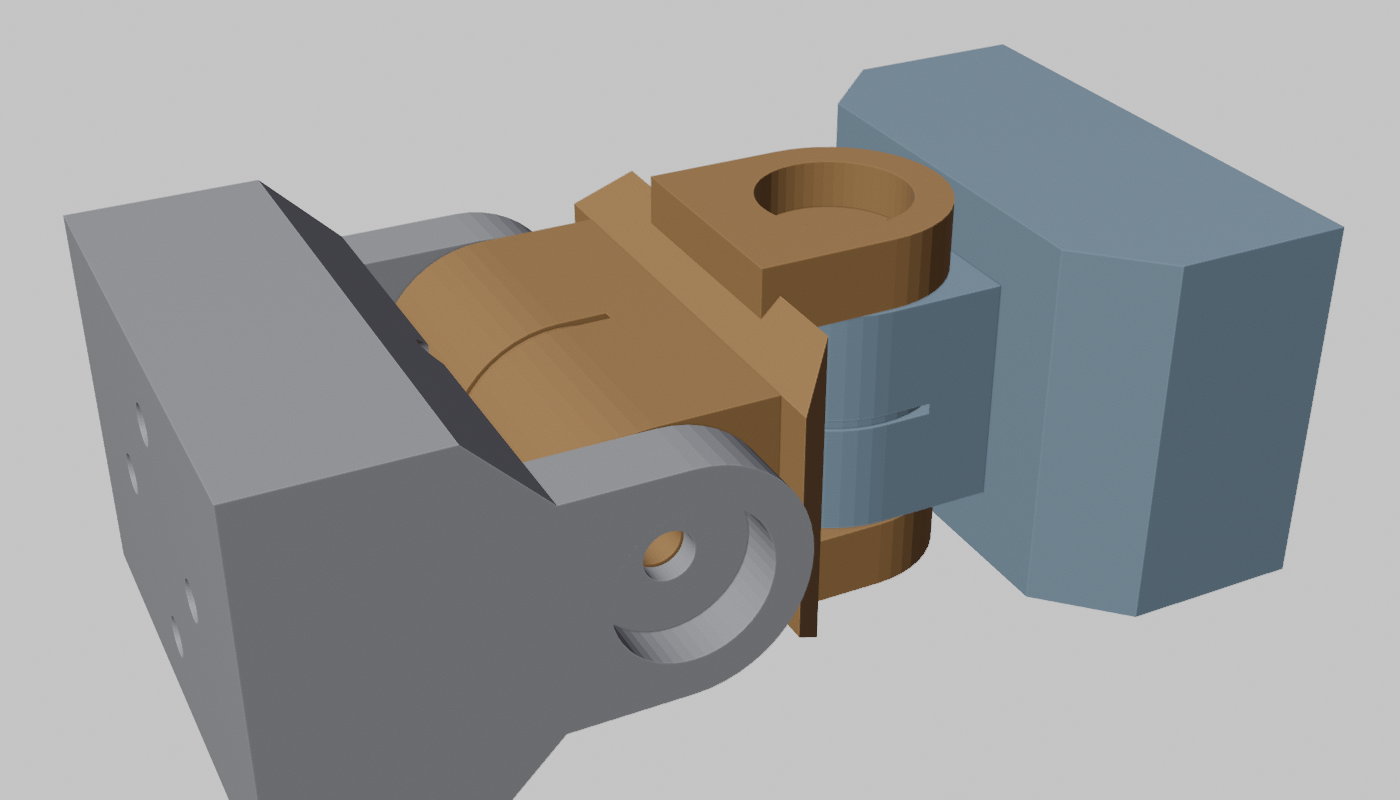
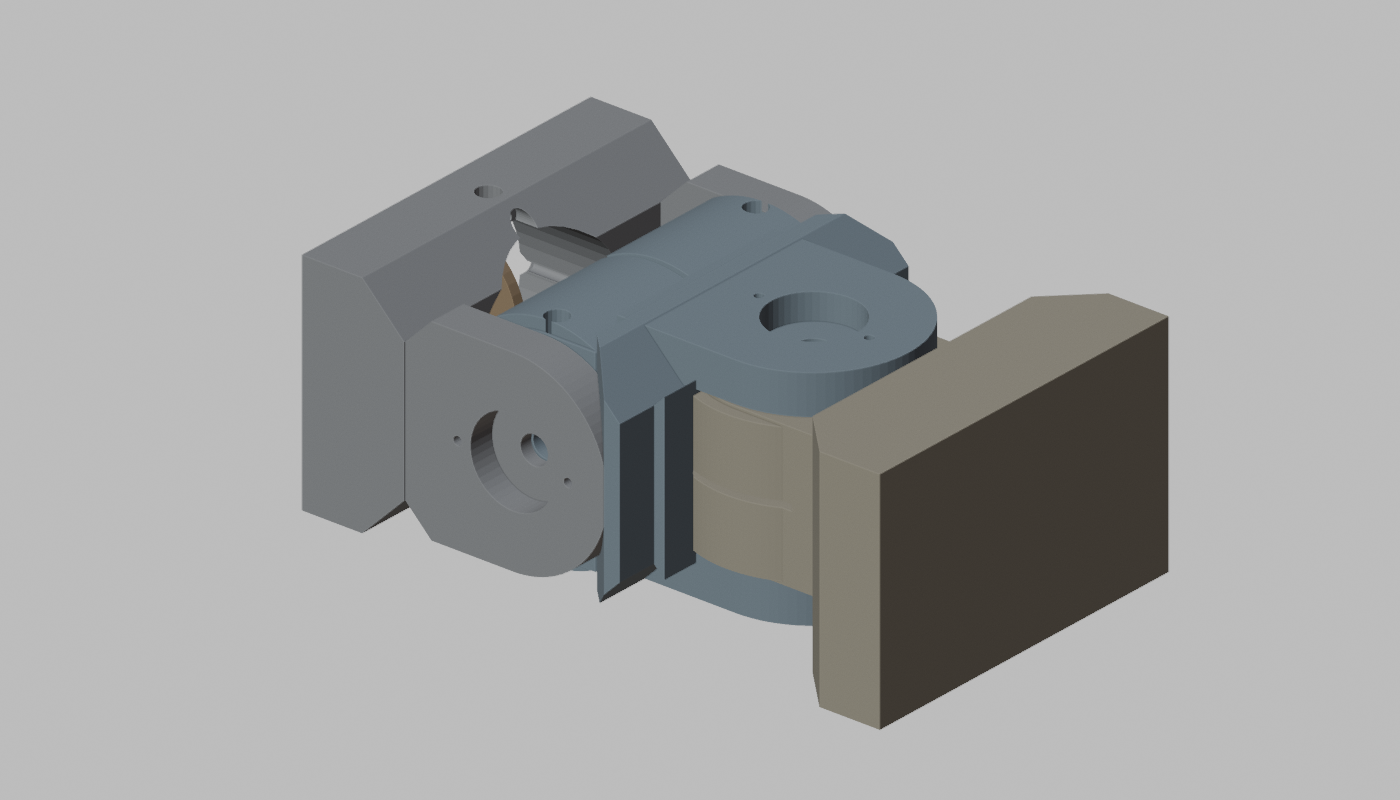
W-mini presets regenerated: neck 25 mm and wrist 18 mm lugs (D-032); step now falls on this model
Set of work produced by prompt P-026 (2026-10-28):

> there were a bunch of next steps that were going to take place before we went down the neural and roboto paths. time to pick those back up?

> tag robot v0.1.0 where we are and proceed with this work (tags can be issued as fit)

chain.py: neck 80 x 52 mm with 25 mm lugs, wrist 66 x 42 with 18 mm lugs and a 3 mm shell (the yaw runs
need the wider tongue). export_mjcf.py: the same moment arms, neck capsule 40 mm. Measured first on the
tendon model (neck 10/18/25 mm and a 2:1 tackle; wrist 12/18/25 mm). Gauntlet on the new baseline: the
neck holds the head within its 37 N rating standing; the 40 N push now stands; the first static step
falls (right foot 22 mm long, then the left planned 333 mm behind), so the world-frame swing-leg
controller comes next on this branch. Renders: chain_neck.png (new), chain_wrist.png, gallery.png.
Prompt log P-026.

Claude-Session: https://claude.ai/code/session_01KYVNxQ7KzPjXCd77AfMFUG

diff --git a/tools/export_mjcf.py b/tools/export_mjcf.py
@@ -60,22 +60,23 @@ CLUTCH_LINE_FRACTION = 1 / 3.0    # clutch slips when the line reaches this frac
 
 # ------------------------------------------------------------------- per joint: tackle, pulley radii, Bowden run
 # pulley radius per DOF axis (m) = the joint's tendon moment arm: knuckle-chain lug radius (chain.py presets:
-# wrist 12, neck 10 mm) or ring rotor radius (ring.py: forearm 28, neck_yaw 25 mm), tendon_calc moment arms
+# wrist 18, neck 25 mm since D-032; they were 12 and 10) or ring rotor radius (ring.py: forearm 28, neck_yaw 25 mm), tendon_calc moment arms
 # for the W-max joints; bowden = sheath length from the bank to the joint (m); tackle = strands at the joint.
 # --stiff-mini (sim_tendon.py) raises the W-mini pulleys to 25 mm and their pretension to 25 % (see docs/13).
 JOINTS = {
     "waist":    dict(tackle=2, pulley={"pitch": 0.050, "roll": 0.050, "yaw": 0.050}, bowden=0.30),
-    "neck":     dict(tackle=1, pulley={"pitch": 0.010, "roll": 0.010, "yaw": 0.025}, bowden=0.30),
+    "neck":     dict(tackle=1, pulley={"pitch": 0.025, "roll": 0.025, "yaw": 0.025}, bowden=0.30),   # D-032
     "shoulder": dict(tackle=2, pulley={"pitch": 0.040, "roll": 0.040, "yaw": 0.040}, bowden=0.40),
     "elbow":    dict(tackle=2, pulley={"pitch": 0.030, "yaw": 0.028}, bowden=0.50, tackle_by_axis={"yaw": 1}),
-    "wrist":    dict(tackle=1, pulley={"pitch": 0.012, "roll": 0.012}, bowden=0.30),
+    "wrist":    dict(tackle=1, pulley={"pitch": 0.018, "roll": 0.018}, bowden=0.30),                  # D-032
     "hip":      dict(tackle=2, pulley={"pitch": 0.060, "roll": 0.050, "yaw": 0.050}, bowden=0.30),
     "knee":     dict(tackle=2, pulley={"pitch": 0.050}, bowden=0.50),
     "ankle":    dict(tackle=3, pulley={"pitch": 0.050, "roll": 0.050}, bowden=0.60),
 }
 
 
-STIFF_MINI = False   # variant: W-mini pulleys 25 mm, pretension 25 % of continuous (docs/13 finding)
+STIFF_MINI = False   # variant: every W-mini pulley at least 25 mm (docs/13 finding; since D-032 the neck is at 25 mm
+                     # in the baseline and the wrist at 18, so this now only raises the wrist)
 HIP_ROLL_60 = True   # hip roll on the 60 mm pulley with tackle 3 (D-028, docs/15); False restores the 50 mm, tackle 2 of docs/14
 
 
@@ -115,7 +116,7 @@ def winch_params(joint_name, axis, cls_name):
 # (x width, y depth, z height) for the trunk segments and the hand. These are the collision shapes too,
 # so the self-collision check is against the printed envelope, not a 50 mm stick. Masses are unchanged.
 SHELL = {"pelvis": ("box", (0.28, 0.16, 0.10)), "spine": ("box", (0.26, 0.16, 0.40)),
-         "neck": ("capsule", 0.035), "head": ("capsule", 0.08), "clavicle": ("capsule", 0.02),
+         "neck": ("capsule", 0.040), "head": ("capsule", 0.08), "clavicle": ("capsule", 0.02),
          "upperarm": ("capsule", 0.045), "forearm": ("capsule", 0.035), "hand": ("box", (0.08, 0.03, 0.18)),
          "thigh": ("capsule", 0.06), "shank": ("capsule", 0.05)}
 TINT = {"W-max": "0.55 0.58 0.62 1", "W-mid": "0.62 0.60 0.52 1", "W-mini": "0.66 0.62 0.60 1"}

diff --git a/cad/blender/chain.py b/cad/blender/chain.py
@@ -697,11 +697,11 @@ PRESETS = {
     "toe": toe_preset,
     # Long bones between printed joint ends are bought pipe (P-009): forearm and humerus 1" (33.4 mm),
     # tibia 1-1/4" (42.2), femur 1-1/2" (48.3), spine 2" (60.3). Sockets sit at the free ends.
-    "wrist": lambda: universal_preset("wrist", 58, 42, 12, 7.5, BEARING_625, 0.55, 2.11, (-70, 60), (-25, 15), chamfer=8,
+    "wrist": lambda: universal_preset("wrist", 66, 42, 18, 7.5, BEARING_625, 0.55, 2.11, (-70, 60), (-25, 15), chamfer=8, shell=3.0,
                                       pipe_base="1"),
     "ankle": lambda: universal_preset("ankle", 76, 60, 18, 9.5, BEARING_608, 0.75, 2.77, (-40, 20), (-20, 15),
                                       L=(60, 40, 50), chamfer=12, shell=3.0, pipe_base="1-1/4"),
-    "neck": lambda: universal_preset("neck", 52, 42, 10, 7.5, BEARING_625, 0.48, 1.65, (-50, 50), (-35, 35),
+    "neck": lambda: universal_preset("neck", 80, 52, 25, 7.5, BEARING_625, 0.48, 1.65, (-50, 50), (-35, 35),
                                      L=(50, 30, 40), instances=1, chamfer=6, pipe_base="1"),
     "waist": lambda: universal_preset("waist", 120, 80, 30, 9.5, BEARING_608, 0.75, 2.77, (-20, 40), (-25, 25),
                                       L=(60, 60, 60), instances=1, chamfer=16, shell=3.0, pads=grid(15, 2, -20, 3),

diff --git a/docs/decisions.md b/docs/decisions.md
@@ -316,3 +316,23 @@ on the tendon model), so the stand-in has to grow the drum locks and the slack r
 Reverses if: the gap cannot be closed in the stand-in, in which case training moves to a GPU port of
 the tendon model itself (MJX or Isaac Lab with the tendon equalities), or the hand-written controller
 stays the controller of record and learning is kept to residual corrections on top of it.
+
+## D-032 (2026-10-28) W-mini presets regenerated: neck pitch/roll 25 mm lugs, wrist 18 mm; both sections widened
+
+Why: D-023's fix, now in the CAD. Measured on the tendon model, holding the head standing still: 10 mm
+neck lugs 82 N on a 37 N line, 18 mm 37 N, 25 mm 29 N; a 2:1 tackle at 10 mm gave 28 N standing but fell
+in the one-foot hold. The wrist with 1 kg in the hand: 12 mm 78 N, 18 mm 72 N, 25 mm 57 N; no lug size
+brings the hand's pitch line under 37 N there, so the wrist takes 18 mm (the size its 66 mm section
+allows without growing the hand) and the hand load stays a W-mini rating question. A larger lug needs a
+wider tongue for the yaw runs: neck 52 x 42 -> 80 x 52 mm (the neck capsule in the model grows from
+35 to 40 mm radius), wrist 58 -> 66 mm wide with a 3 mm shell. Pretension is unchanged (the
+`--stiff-mini` variant's 25 % was not needed). Effect on the gauntlet: the neck is within its rating
+standing, in the 10 and 20 N pushes, the squat and the weight shift, at it in the arm hold (38 N), above
+it in the 30 N push, the sustained push and the one-foot hold (42 to 54 N); the 40 N push now stands; the first static step now falls
+(the right foot lands 22 mm long, then the planner places the left 333 mm behind), the same failure the
+`--stiff-mini` variant showed, so the swing-leg controller is next on this branch.
+Alternative: a 2:1 tackle at the old lug (kept the section, fell in the one-foot hold); neck pitch/roll
+on the ring primitive (D-023's alternative), not needed at this load.
+Reverses if: the printed neck's mass at real infill exceeds the skeleton's 0.3 kg budget enough to move
+the head's CoM, or the bench test of the W-mini line rating comes in well above 37 N.
+

diff --git a/docs/prompt-log.md b/docs/prompt-log.md
@@ -390,3 +390,24 @@ D-031's fallback. In the sibling: the ten merged remote branches deleted; the se
 removed after their trained checkpoints, logs and RPO meshes were copied into the main checkout
 (`artifacts/rl`, `third_party/roboparty_rpo/meshes`), which is now on master; the three remote branches of
 unmerged, closed PRs kept.
+
+## P-026 (2026-10-28) Back to the pre-learning backlog; v0.1.0; W-mini presets; durable skills
+
+> there were a bunch of next steps that were going to take place before we went down the neural and roboto paths. time to pick those back up?
+
+> tag robot v0.1.0 where we are and proceed with this work (tags can be issued as fit)
+
+> for the tags - I would like tags detailed like the sibling project, you have visuals, let's see them there
+
+> you created those blender scripts and seemingly forgot. make sure you are capturing durable skills in the repo
+
+Produced: the backlog from docs 14 to 16 ordered (W-mini presets, world-frame swing-leg controller, second
+step and gait cycle, arm clearance and ankle pre-stretch, speed). Tag v0.1.0 at c86a8bc with a GitHub
+release in the sibling's form (summary, the gauntlet, one-foot and step GIFs, results, gaps, the STLs
+built fresh from the generators, the MuJoCo models); `docs/releases.md`. `CLAUDE.md` and
+`.claude/skills/` (project-loop, cad-generators, tendon-sim, release) so the Blender generators, the
+simulation and the release steps are found by the next session; `cad/blender/render.py` replaces the
+uncommitted scratch render script (single assemblies and the gallery). On branch `feat/w-mini-25mm`:
+D-032, neck pitch/roll 25 mm lugs and wrist 18 mm in `chain.py` and the model; the neck within its rating
+standing; the 40 N push now stands; the first static step falls on this model, which the swing-leg
+controller has to fix before the branch merges.

diff --git a/docs/16-first-step.md b/docs/16-first-step.md
@@ -136,8 +136,10 @@ CoM. That is filed as hub task `swing-leg-world-ik`.
   where it falls). The landing pose is computed once from the CoM and hip positions at the start
   of the hover; the body leans during the placement. Correcting it from the measured foot made it
   worse five ways (above); the next attempt is a world-frame swing-leg controller.
-- **The neck.** Above its rating in every scene; the 25 mm W-mini presets (hub task
-  `w-mini-25mm-cad-presets`, D-023) fix it standing, but the step must pass on that variant too.
+- **The neck.** The 25 mm neck presets are in (D-032): within its rating standing, still above it
+  in this scene. On that model the step falls: the right foot lands 123 mm ahead (planned 101), and
+  the planner then places the left foot 333 mm behind, so the robot falls in the second transfer. The
+  swing-leg controller has to pass on this model; `--stiff-mini` is now only the wider wrist.
 - **The one-foot hold's arms** still rest on the thigh (hand roll above rating for 2.6 s); the
   step's 10 degree arm clearance should be applied there too.
 - **Speed.** 32 s for one step: the transfers are 5 s ramps because the hip-roll shift is slow by
@@ -146,4 +148,4 @@ CoM. That is filed as hub task `swing-leg-world-ik`.
 ## Next
 
 A world-frame swing-leg controller (hub task `swing-leg-world-ik`), then a second step (the left
-foot ahead of the right) to make a gait cycle, then the same on `--stiff-mini`.
+foot ahead of the right) to make a gait cycle, on the D-032 model.

diff --git a/docs/15-one-foot-hold.md b/docs/15-one-foot-hold.md
@@ -88,7 +88,8 @@ robot that is the difference between a loop that reads its tension and one that 
 The swing foot still brushes the stance foot for a few frames during the first two seconds of
 the hold (the fold passes it). The arm hanging against the thigh takes 250 N on its roll line
 when the folded leg leans on it (`upperarm.R_roll`): the arms should be held clear in single
-support. The neck still flops into its stop (W-mini presets, D-023). The sagittal loop in single
+support. The neck flopped into its stop until D-032; with its 25 mm lugs it no longer does, but its pitch line
+still peaks at 54 N on a 37 N rating in this hold. The sagittal loop in single
 support runs the ankle pitch at 10 to 22 N m against a 22 N m linear range; a quieter hold
 needs the ankle pitch pre-stretched for one foot's load.
 

diff --git a/docs/13-tendon-simulation.md b/docs/13-tendon-simulation.md
@@ -133,7 +133,7 @@ voltage loop.
 
 Hip strategy and a static-walk engine on this model (the stance leg's lines go to peak load and
 the swing leg's go slack, which is exactly what this model can now show), then the Isaac Lab
-conversion for the gauntlet proper (`references.md`). The CAD follow-up is the 25 mm W-mini
-pulleys. For the learning side, `references.md` now notes LeRobot and the sibling
+conversion for the gauntlet proper (`references.md`). The CAD follow-up, the 25 mm W-mini
+pulleys, is done for the neck (25 mm) and the wrist (18 mm) in D-032. For the learning side, `references.md` now notes LeRobot and the sibling
 `ai-embedded-dynamic-diversity` project; this model is the harness that can ground a generic
 DOF-and-sensor policy in real tensions, slack and clutch slip.

diff --git a/docs/14-balance-gauntlet.md b/docs/14-balance-gauntlet.md
@@ -146,8 +146,8 @@ work; LeRobot stays the route for the manipulation side.
 
 Stepping (the 40 N push and anything beyond the sole), the single-support hold (section 5),
 spatial tendons over the real pulley geometry, the sole's TPU pad and force sensors as sensors
-rather than contact sums, motor heating, line creep. The neck still flops into its stop in the
-baseline model (`--stiff-mini` fixes it; the CAD presets are still to regenerate, D-023).
+rather than contact sums, motor heating, line creep. The neck flopped into its stop in the
+baseline model until the presets were regenerated with 25 mm neck lugs (D-032).
 
 ## Next (as written at P-011; the one-foot hold is done in `15`)
 
